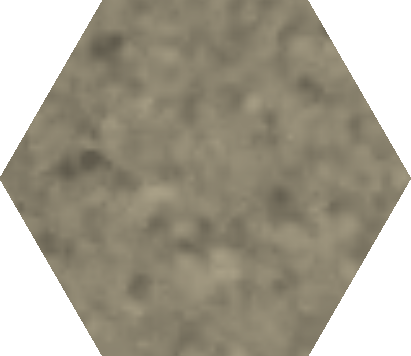
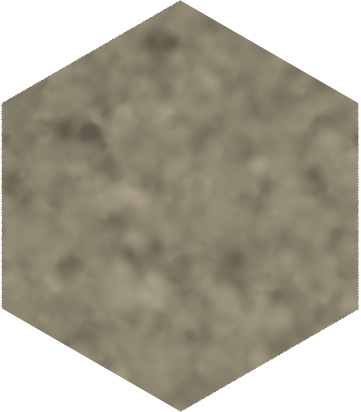
erste Version mit Texturen

diff --git a/src/dg/gui/BoardPanel.java b/src/dg/gui/BoardPanel.java
@@ -4,6 +4,7 @@ import java.awt.Color;
 import java.awt.Dimension;
 import java.awt.Graphics;
 import java.awt.Graphics2D;
+import java.awt.Image;
 import java.awt.RenderingHints;
 import java.awt.geom.AffineTransform;
 import java.awt.geom.Path2D;
@@ -23,6 +24,8 @@ public class BoardPanel extends JPanel {
 
 	private static final long serialVersionUID = 1L;
 	
+	private static final boolean DRAW_TEXTS = false;
+	
 	private static BoardPanel instance = null;
 	
 	static double translateX = 0;
@@ -37,7 +40,7 @@ public class BoardPanel extends JPanel {
 	}
 	
 	private BoardPanel() {
-		this.setBackground(Color.black);
+		this.setBackground(Color.decode("#6F4E37")); // coffee brown!
 		
 		Dimension fullscreenDim = GUIUtils.getFullScreenBounds();
 		translateX = fullscreenDim.getWidth() / 2;
@@ -79,19 +82,26 @@ public class BoardPanel extends JPanel {
 			
 			g2.translate(tx, ty);
 			
-			g2.setColor(Color.white);
+			// coord image
+			Image image = ImageCache.getImage(c, grid.get(c));;
+			if (image != null) {
+				g2.setClip(hex);
+				g2.drawImage(image, (int) -h - 1, (int) -r - 1, (int) (2 * h) + 2, (int) (2 * r) + 2, null);
+			}
+			g2.setClip(null);
+			
+			// grid
+			g2.setColor(Color.black);
 			g2.draw(hex);
 			
-			g2.scale(1 / scale, 1 / scale);
-			if (grid.get(c) == Terrain.WALL) {
-				g2.setColor(Color.yellow);
-			}
-			else {
+			if (DRAW_TEXTS) {
+				// text
+				g2.scale(1 / scale, 1 / scale);
 				g2.setColor(Color.white);
+				String string = c.toString();
+				Rectangle2D stringRect = g2.getFontMetrics().getStringBounds(string, null);
+				g2.drawString(string, (int) (-stringRect.getWidth() / 2), (int) (stringRect.getHeight() / 2));
 			}
-			String string = c.toString();
-			Rectangle2D stringRect = g2.getFontMetrics().getStringBounds(string, null);
-			g2.drawString(string, (int) (-stringRect.getWidth() / 2), (int) (stringRect.getHeight() / 2));
 			
 			g2.setTransform(transform); // restore transform
 		}

diff --git a/src/dg/gui/ImageCache.java b/src/dg/gui/ImageCache.java
@@ -1,0 +1,50 @@
+package dg.gui;
+
+import java.awt.Image;
+import java.awt.image.BufferedImage;
+import java.io.File;
+import java.io.IOException;
+import java.util.Hashtable;
+
+import javax.imageio.ImageIO;
+
+import dg.Coordinates;
+import dg.Terrain;
+
+
+public class ImageCache {
+
+	private static final String BASE_DIR = "images/";
+	
+	static final String FLOOR = "terrain/Floor01.png";
+	static final String WALL = "terrain/Wall01.png";
+	
+	private static Hashtable<String, Image> cache = new Hashtable<String, Image>();
+	
+	static Image getImage(String name) {
+		if (cache.containsKey(name)) {
+			return cache.get(name);
+		}
+		try {
+			BufferedImage image = ImageIO.read(new File(BASE_DIR + name));
+			cache.put(name, image);
+			return image;
+		}
+		catch (IOException ex) {
+			ex.printStackTrace();
+			return null;
+		}
+	}
+
+	static Image getImage(Coordinates coords, Terrain terrain) {
+		switch (terrain) {
+		case FLOOR:
+			return getImage(ImageCache.FLOOR);
+		case WALL:
+			return getImage(ImageCache.WALL);
+		default:
+			return null;
+		}
+	}
+	
+}
